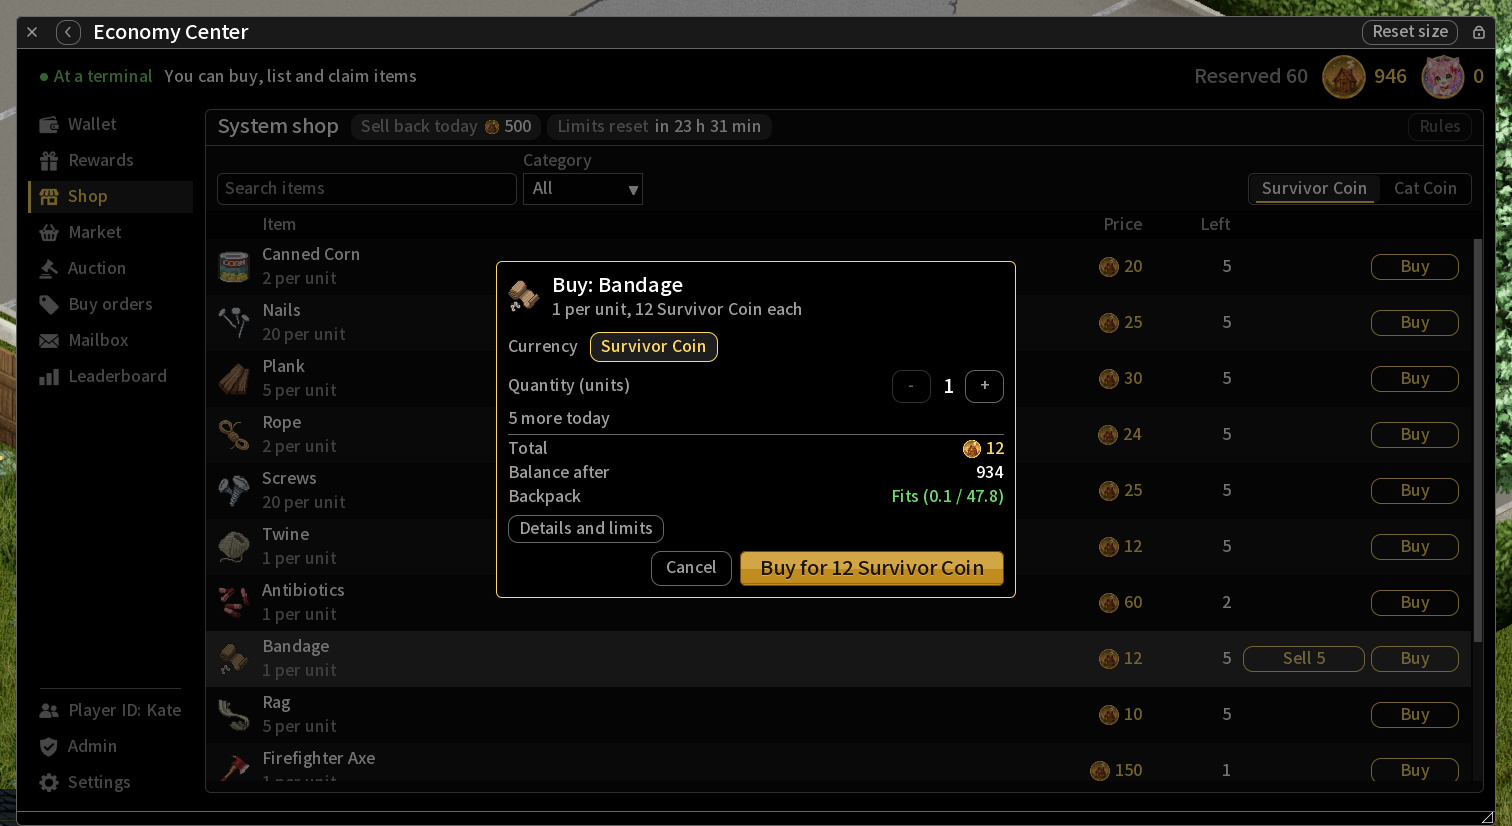
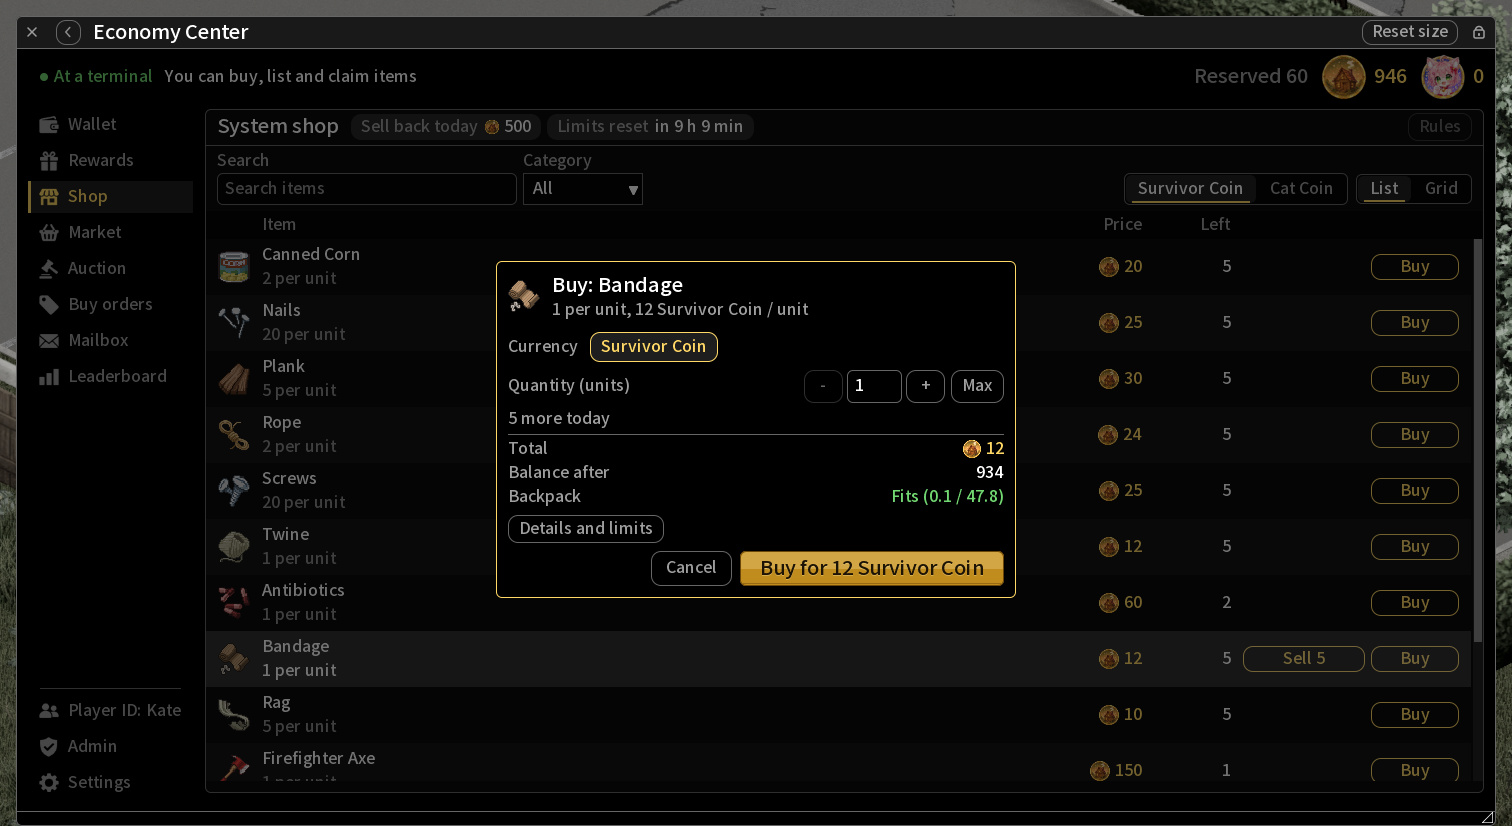
商店每筆份數改由服主設定，購買／出售框加數量框與「最多」
玩家在 Discord 要求一次大量買賣：以前一筆固定最多 10 份，只能用 −／＋ 一份一份點。

- 沙盒選項 ShopMaxPerOrder（1–100，預設 10）：EC.OPTIONS、sandbox-options.txt、16 個語系資料夾的
  Sandbox.json。硬上限 Shop.COUNT_MAX 讀選項的 max（100＝ITEMS_PER_BUY_MAX，一份至少一件）。
- ECShop：Shop.countMax() 讀選項。shop.buy 的形狀檢查仍用硬上限（invalid_args），查完冪等紀錄
  之後才比服主上限與 qty×count ≤ 100（too_many_items），所以調低上限不會讓已付款訂單的重送變成
  拒絕；shop.sell 同樣比服主上限。快照的 countMax 改讀選項，另帶 itemsMax。
- 購買／出售框：−／＋ 中間改成數字框（框架 TextField），旁邊加「最多」。dlg.count 仍是唯一的份數，
  按鈕與夾限一律經 setCount 同步數量框；打字超過上限改成上限，空或 0 時確認鈕停用；買入的上限另受
  itemsMax ÷ 每份件數限制；關窗時放開數量框的鍵盤。成交後照舊關閉視窗（使用者裁定）。
- 翻譯 Shop_CountMax 與沙盒選項名稱／說明；README、Steam 指南草稿與 02 截圖（中英，發版時上傳）、
  分析文件、CHANGELOG [Unreleased]。

GitNexus impact：Shop.snapshot 為 HIGH（pushAll／add／remove／updateMany 都經它推送），這次只加
itemsMax 欄位、countMax 改讀選項；Shop.buy／Shop.sell 只由 S.handlers 呼叫。

測試
- smoke harness +10（BQ-1..10，共 2455）：預設 10 份、超過一份即拒且零扣款、調高後推送與 30 份
  一筆交付、100 件上限、選項範圍、硬上限與服主上限的錯誤碼、調低後重送仍回原結果、收購同一上限、
  客戶端的最多份數與打字／「最多」。逐項植入違規，對應的 BQ 都變紅。
- verify_mod PASS 24／FAIL 0；test_entitlement_client 213 checks、0 failed。
- MP 實機 E2E：新情境 shop-bulk-mp econ-bulk-1024b PASS steps=25 checks=21（1024a 23/20）；
  修改前 econ-bulkb-1024a（f246a68 匯出）照預期在 defaults FAIL；回歸 run_sweep 1024bq：
  shop 10/8、shopadmin 27/30、bbr 13/11、edge 146/241 PASS；指南截圖 econ-gshot-ch／en-1024a PASS。
  各輪伺服器與客戶端 log 沒有 Economy／MinidoracatUI 的 Lua 例外。

diff --git a/docs/economy-system-analysis.md b/docs/economy-system-analysis.md
@@ -659,7 +659,7 @@ A1–A5、A9、A10 決定儲存與一致性設計能否成立，先做；A7、A1
 - **終端薄片先進 C**（購買必須在終端旁，規則從第一天就正確）：管理員建造實體（entity 腳本沿用 A11 的 `proto_terminal.txt` 形狀、tile 先借原版 `location_business_bank_01_0`，美術待定）；右鍵「登錄為終端／移除登錄」（僅 admin，server 以 `hasCapability(AddItem)` 重驗，並確認該格有允許的 tile 物件）與「使用終端」（已登錄者，任何人，開經濟中心）；ModData `terminals[id]={x,y,z,kind,by,at}`、id `<epoch>:<seq>`；`RemoteReadOnly=true` 時所有寫入類指令（`shop.buy`、`mail.claim`）要求距任一終端 ≤ 2 格且同層（A12 的 Chebyshev 距離），否則 `not_at_terminal`；`false` 時不限。client 由 `hello.ack`／`terminals` 取得清單，狀態帶顯示「在終端旁」或「遠端唯讀」；伺服器沒有任何終端時面板提示管理員設置。
 - **catalog 以檔案為唯一真相、面板直接寫檔**：`{cachedir}/Lua/MinidoracatEconomy/catalog.json` 為 `{"items":[...]}`；每列含 `id/item/qty/category/enabled/dailyCap/dailyCapScope/buybackCap` 及 `prices[currency]={price,bidPrice,enabled,buyback}`。舊單幣扁平價格僅在讀檔邊界轉換，既有檔讀取失敗不寫預設。`id` 為 `[A-Za-z0-9_-]{1,32}`、最多200筆；`item` 須由 server `ScriptManager.instance:FindItem` 解析（`ScriptManager.java:1413-1419`），每份1–50件。`admin.catalog{action=list|set|add|batch|reload}` 沿用讀／寫權限與稽核；單筆與批次共用整份驗證、expected revision、磁碟hash、一次寫入／讀回，再 `Shop.pushAll()` 推送快照。既有商品 `id/item` 不可由面板換成別項；`qty/category` 可改。`revision` 為檔案hash，購買不匹配回 `catalog_changed`，不靜默換價。
 - **送出名稱（2026-10-09，推翻 2026-10-02「先不做」）**：SKU 選填 `name`（≤`Shop.NAME_MAX`=48 字元、不得有控制字元，超出回 `bad_text field=name`；空字串＝沒有名稱，`set`/`batch` 送空字串即清除；舊目錄沒有這欄行為不變）。有液體容器的物品（`EC.hidesItemName`：腳本 `containsComponent(ComponentType.FluidContainer)`）一律拒絕名稱（`name_not_shown`，零變更；載入時照壞列規則整份拒收、沿用上一份）——42.21.0 `InventoryItem.getName(player)` 對這類物品只回液體的 UI 名稱，自訂名稱看不到。有名稱的 SKU 購買時，`M.prepare` 與信件都帶 `snapshot={type,name,fresh=true}`，`Codec.rebuild` 遇到 `fresh` 只照 type 建新品再 `setName`＋`setCustomName(true)`，不碰液體、耐久或用量；沒有名稱的 SKU 照舊 `instanceItem`。收購 `Codec.isCanonical(item, fullType, allowName)`：名稱等於該 SKU `name` 的全新品視同沒改名，其他自訂名稱仍回 `renamed`。管理台編輯器「商品資料」有「送出名稱」欄（不參與批量；液體容器停用並註明原因），從背包拖入或右鍵「加入商店」時若物品名稱和腳本名不同就預填（液體容器不預填）；玩家商店與管理清單以送出名稱為主名、物品名為副標。
-- **購買（現行）**：`shop.buy{id, count(1–10), currency, revision, requestId, acceptMail?}` 先驗基本形狀與既有請求身分，成功重送沿用帳本的有限冪等窗口；新操作核對商品報價、revision、終端距離、凍結、單次物品數上限100、限購份數、信箱空位及餘額。`M.prepare` 建物並量重；放不下且未同意寄存即拒絕、零扣款。成功 `L.debit(...,{kind="shop_buy"})` 後記錄份數並建立信件，放得下立即交付，否則依同意寄存；已付款的信件占用額度，之後領取或部分交付不再加扣份數。事件 `shop.purchase`、收據 kind `shop_buy`。
+- **購買（現行）**：`shop.buy{id, count(1–100), currency, revision, requestId, acceptMail?}` 先驗基本形狀與既有請求身分（`count` 超過硬上限 100 回 `invalid_args`），成功重送沿用帳本的有限冪等窗口；新操作核對商品報價、revision、終端距離、凍結、每筆份數上限（沙盒 `ShopMaxPerOrder`，1–100、預設 10，2026-10-24 起；之前固定 10）與單次物品數上限100（超過任一個回 `too_many_items`）、限購份數、信箱空位及餘額。`shop.sell` 的份數也受 `ShopMaxPerOrder` 限制。`M.prepare` 建物並量重；放不下且未同意寄存即拒絕、零扣款。成功 `L.debit(...,{kind="shop_buy"})` 後記錄份數並建立信件，放得下立即交付，否則依同意寄存；已付款的信件占用額度，之後領取或部分交付不再加扣份數。事件 `shop.purchase`、收據 kind `shop_buy`。
 - **三種互斥限購（2026-09-15）**：保留已發布設定欄名 `dailyCap`（0不限、1–1,000,000份）與 `dailyCapScope`；模式為 `player`（每日每人、缺省）、`global`（每日全服）、`lifetime`（每人永久），其餘值拒絕。`Shop.used(username,id,ms)` 是快照、購買守門及回覆的共用讀點；`used` 為目前模式已用份數，有限購才有 `remaining=max(0,cap-used)`。全服 `shop.stock` 同時送 `used/remaining`，個人用量不作全服廣播。
 - **永久累計來源**：`shopLifetime[username][skuId]` 與既有每日 `shopDaily` 同屬世界 ModData；每次新版成功購買同時計入兩者，包括當時未開限購的商品。永久累計不採用每日31天清理，因為切回永久模式仍需保留全部已計份數；不從不完整日桶或可能已回滾的事件檔回補舊資料。模式／價目／每份件數／角色／賽季變更不清計數，世界存檔回滾則連同帳款一起回滾。下修上限不刪已購數，也不追回物品；同 ID 保留、新 ID 另計。
 - **購買事件附加欄位**：`shop.purchase` 保留原身份及金額欄，追加 `capScope`（當次模式）、`cap`（當次上限）、`usedAfter`（該模式成交後已用份數）、`lifetimeUsed`（該帳號商品的永久累計）。用量單位均為份數，成交前該模式用量為 `usedAfter-count`；舊行缺欄保持未知。沿用既有事件 writer，不新增計數 JSON、重播恢復器或 companion 日報規則。

diff --git a/README.md b/README.md
@@ -105,6 +105,7 @@
 - **不同清單互不連動**：商店商品由 `catalog.json` 管理，上架白名單由 `whitelist.json` 管理；新增商店商品不會自動放寬玩家市場的上架規則。
 - **其他 MOD 指定的物品**：整合 API rev 5 的 `blockItemType` 讓別的 MOD 把物品類型擋在所有交易外；rev 6 的 `registerUniqueItemType` 讓「每一件都不同」的物品（例如已裝載車輛的膠囊）連同內容物在市場與拍賣一件一件交易，不受分類規則限制，但管理員的「排除」規則仍然有效；這類物品不能求購、不能用來付款，也不能賣給商店。介面規格寫在 `ECIntegration.lua` 檔頭。
 - **商品上限**：預設 200 項，可在「設定 → 系統商店 → 系統商店商品上限」調整為 1–1000；目錄頁的件數旁會顯示目前上限。每次改動目錄都會把整份目錄推送給所有在線玩家，商品越多每次推送越大；1000 是單一回覆能容納的上限。調低不會刪除既有商品，只是在數量降到上限以下之前不能再新增；已下架的商品也佔名額。
+- **每筆最多份數**：玩家一次購買或賣回同一項商品最多幾份，預設 10，可在「設定 → 系統商店 → 商店每筆最多份數」調整為 1–100，調整後立刻推送給在線玩家。一筆最多 100 件物品，所以每份件數多的商品能選的份數更少（每份 20 件最多 5 份）；每日限購與收購額度照舊計算。玩家的購買與出售視窗可以直接輸入數量，或按「最多」填入這一筆能買賣的最大份數。
 - **尚未套用的編輯**：離開商品編輯區前會詢問是否放棄。儲存失敗或收到新目錄時，草稿會保留；若目錄版本已變動，取消編輯可採用最新收到的資料，再重新修改，避免覆蓋其他管理員的變更。
 - **價目與既有交易**：整批價目一起驗證，發現不合法欄位或可循環套利的設定時整筆拒絕，不部分寫入。舊格式目錄會在載入時正規化；新編輯一律使用分幣價目。重送已完成的相同操作會回覆原結果，之後的停用、價格範圍或商品目錄變更不會改寫過去結果；更換確認內容則視為衝突。拍賣原有保留款在幣別停用或調低上限後仍可正常釋回，不當作新發行。
 - **鍵盤與完整資訊**：管理商店、上架白名單與市場可用 Tab、方向鍵、Enter、Esc 操作。物品名稱及紀錄原文可在共用浮動詳情捲動閱讀與複製；背包選物網格支援上下左右選取。

diff --git a/STEAM_GUIDE.md b/STEAM_GUIDE.md
@@ -87,6 +87,7 @@ https://steamcommunity.com/sharedfiles/filedetails/?id=3801482125
 [*] [b]標題列[/b]：顯示今日可賣回的額度與限購重置倒數。
 [*] [b]買賣[/b]：直接按每一列自己的按鈕購買或出售；賣完的商品顯示「已售完」。
 [*] [b]購買視窗[/b]：只列數量、總價、交易後餘額與背包放不放得下，規格與限購細節在「規格與限購」。
+[*] [b]數量[/b]：可以直接輸入，或按「最多」填入這一筆最多能買（或賣）的份數；一次最多幾份由服主設定（預設 10），每筆最多 100 件物品。
 [*] [b]幣別[/b]：每項商品可分別設定倖存幣與貓幣的售價與收購價，每次交易只使用你選的幣別；[b]未報價不代表免費[/b]。
 [/list]
 [h3]賣回商店（系統收購）[/h3]
@@ -335,6 +336,7 @@ https://steamcommunity.com/sharedfiles/filedetails/?id=3801482125
 [*] [b]重新新增[/b]：用同一個商品 ID 重新新增會接續原本的已購份數。
 [*] [b]下架[/b]：只停止販售，要完全停用請一併關閉收購或刪除。
 [*] [b]商品上限[/b]：在「設定 → 系統商店」調整（預設 200，最高 1000）。
+[*] [b]每筆最多份數[/b]：玩家一次能買或賣回幾份，在「設定 → 系統商店」調整（預設 10，最高 100）；每筆最多 100 件物品，每份件數多的商品能選的份數更少。
 [*] [b]系統收購[/b]：只收跟全新一樣的物品；食物只看有沒有吃過，煮過、燒焦、冷凍或不新鮮都照收。
 [*] [b]貓幣收購額度[/b]：預設為 0（等於關閉），要開放須明確調高。
 [/list]

diff --git a/STEAM_GUIDE_EN.md b/STEAM_GUIDE_EN.md
@@ -87,6 +87,7 @@ A server option; it only appears once the server allows it.
 [*] [b]Title bar[/b]: shows today's sell-back allowance and the countdown to the limit reset.
 [*] [b]Buying and selling[/b]: use each row's own button; entries that ran out show "Sold out".
 [*] [b]Buy window[/b]: shows only the quantity, total, your balance after and whether it fits your bag; specs and limits are under Details and limits.
+[*] [b]Quantity[/b]: type it in, or press Max for the most this order can buy (or sell); the server owner sets how many units one order may carry (default 10), and one order holds at most 100 pieces.
 [*] [b]Currencies[/b]: Survivor Coin and Cat Coin sell and buyback prices are set per entry; each trade uses the currency you choose, and [b]no quote never means free[/b].
 [/list]
 [h3]Selling back (buyback)[/h3]
@@ -335,6 +336,7 @@ A server option.
 [*] [b]Re-adding[/b]: the same ID continues its purchase counts.
 [*] [b]Delisting[/b]: only stops sales: also turn off buyback, or delete the entry, to retire it.
 [*] [b]Entry cap[/b]: under Settings - System shop (default 200, up to 1000).
+[*] [b]Units per order[/b]: how many units a player may buy or sell back at once, under Settings - System shop (default 10, up to 100); one order holds at most 100 pieces, so entries with more pieces per unit allow fewer units.
 [*] [b]Buyback[/b]: takes only items as good as new; food only needs to be uneaten (cooked, burnt, frozen or stale is fine).
 [*] [b]Cat Coin buyback limits[/b]: default to 0 (off); raise them explicitly to allow it.
 [/list]

diff --git a/CHANGELOG.md b/CHANGELOG.md
@@ -12,6 +12,14 @@
 
 格式基於 [Keep a Changelog](https://keepachangelog.com/zh-TW/1.1.0/)，版本號遵循 `{PZ版本}-{主版本}.{次版本}.{修訂}` 格式。
 
+## [Unreleased]
+
+### 新增
+
+- **系統商店一次可以買賣更多份，數量也能直接輸入**：購買與出售視窗以前只能用 −／＋ 一份一份點，一次最多 10 份。現在數量框可以直接打數字，旁邊多了「最多」按鈕，一按就填入這一筆最多能買（或能賣）的份數；打的數字超過上限會自動改成上限，數量框清空時不能按確認。一次最多幾份改由服主在「經濟管理台 → 設定 → 系統商店 → 商店每筆最多份數」設定（1–100，預設 10，維持原本的 10 份）。一筆最多 100 件物品，所以每份件數多的商品能選的份數比較少（例如釘子一份 20 件，一筆最多 5 份）；每日限購、收購額度與餘額照舊計算。
+
+> 技術要點：沙盒選項 `ShopMaxPerOrder`（1–100，預設 10）；在遊戲內調整會立刻把新上限推送給在線玩家。`shop.list` 快照的 `countMax` 改讀這個選項，另帶 `itemsMax`（每筆物品上限 100）。`shop.buy`／`shop.sell` 超過上限回 `too_many_items`，什麼都不扣；`count` 超過 100 仍回 `invalid_args`。調低上限之後，重送已成交的訂單照舊回第一次的結果。
+
 ## [42.21.0-0.21.0] - 2026-10-23
 
 ### 新增
